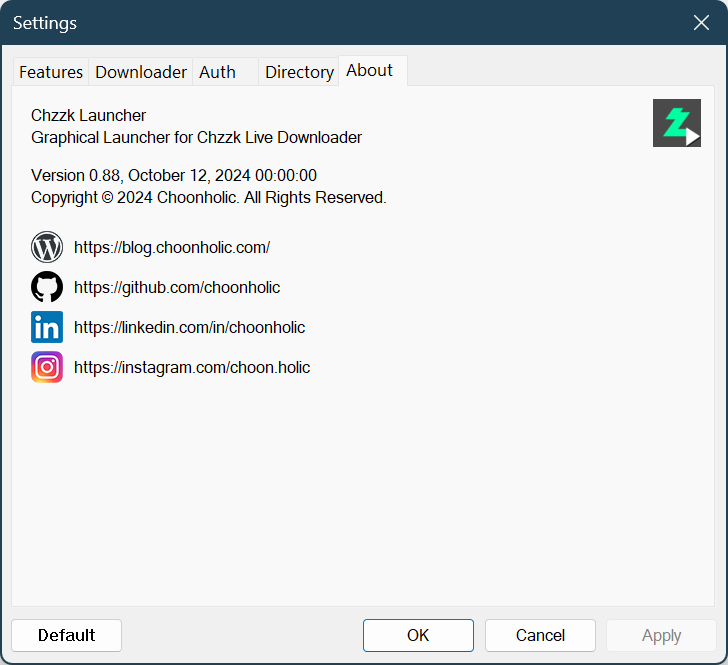
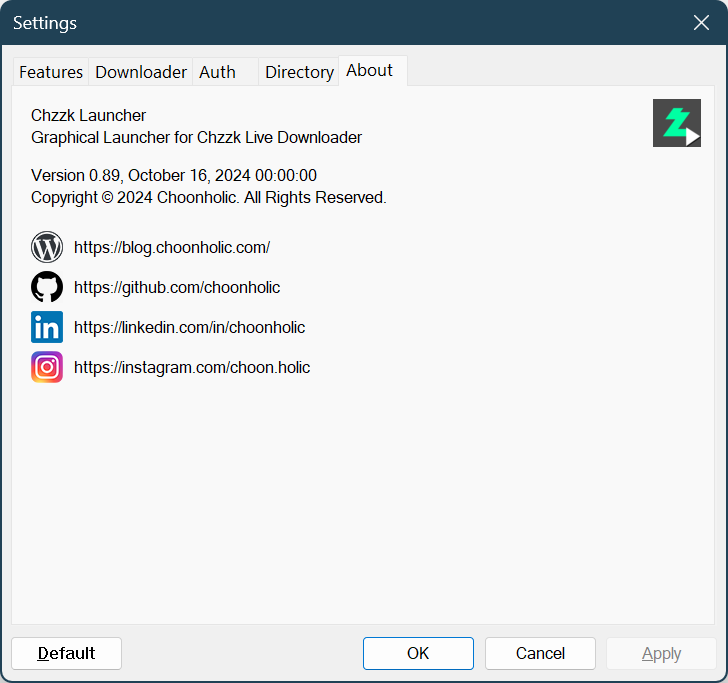
Version 0.89

diff --git a/README.md b/README.md
@@ -8,7 +8,7 @@ https://blog.choonholic.com/downloads
 Downloader for Chzzk live streams
 
 ## Version
-Version 0.88, October 12, 2024 00:00:00
+Version 0.89, October 16, 2024 00:00:00
 
 ### Prerequisites For Executables
 * **[Mandatory]** Latest version of ffmpeg binary. (ffmpeg 7.1 is recommended.)
@@ -17,21 +17,21 @@ Version 0.88, October 12, 2024 00:00:00
 
 ### Usage
 ```powershell
-ChzzkLiveDownloader [-h] [-i ID] [-u [UID]] [-a] [-q [QUALITY]] [-d [DISPLAY]]
-                    [-y] [--version] [--once ONCE] [--stream [STREAM]]
-                    [--final [FINAL]] [--custom [CUSTOM]] [--offset OFFSET]
-                    [--duration DURATION] [--detect [DETECT]]
-                    [--authaut AUTHAUT] [--authses AUTHSES] [--nlevel [NLEVEL]]
-                    [--ntoken NTOKEN] [--name [NAME]] [--work [WORK]]
-                    [--out [OUT]] [--temp [TEMP]] [--rpcbaseport [RPCPORT]]
-                    [--thumb [THUMB]] [--settings [SETTINGS]] [--reset]
+ChzzkLiveDownloader [-h] [-i ID] [-u [UID]] [-a] [-q [QUALITY]] [-d [DISPLAY]] [-y]
+                    [--version] [--once ONCE] [--stream [STREAM]] [--final [FINAL]]
+                    [--custom [CUSTOM]] [--offset OFFSET] [--duration DURATION]
+                    [--detect [DETECT]] [--adult [ADULT]] [--authaut AUTHAUT]
+                    [--authses AUTHSES] [--nlevel [NLEVEL]] [--ntoken NTOKEN]
+                    [--name [NAME]] [--work [WORK]] [--out [OUT]] [--temp [TEMP]]
+                    [--rpcbaseport [RPCPORT]] [--thumb [THUMB]]
+                    [--startup [STARTUP]] [--settings [SETTINGS]] [--reset]
 ```
 
 ### Options
 ```
 -h, --help               Show this help message
--i ID, --id ID           Set streamer configuration id (default: 0)
--u [UID], --uid [UID]    Set streamer unique identifier
+-i, --id ID              Set streamer configuration id (default: 0)
+-u, --uid [UID]          Set streamer unique identifier
 -a, --auth               Set Chzzk authorized credential
 -q, --quality [QUALITY]  Set target quality to download (e.g. 1080p)
 -d, --display [DISPLAY]  Set download status display mode (quiet|simple|fluent|all)
@@ -44,6 +44,7 @@ ChzzkLiveDownloader [-h] [-i ID] [-u [UID]] [-a] [-q [QUALITY]] [-d [DISPLAY]]
 --offset OFFSET          Set amount of time to skip from the beginning of the stream
 --duration DURATION      Set limit the stream duration to download
 --detect [DETECT]        Set detection interval (default: 60, 1-600)
+--adult [ADULT]          Set the process method for adult contents when credentials are invalid (ask|skip)
 --authaut AUTHAUT        Set auth key of Chzzk authorized credential
 --authses AUTHSES        Set session key of Chzzk authorized credential
 --nlevel [NLEVEL]        Set LINE notify level (none|reset|remove|info|error|verbose|all)
@@ -54,6 +55,7 @@ ChzzkLiveDownloader [-h] [-i ID] [-u [UID]] [-a] [-q [QUALITY]] [-d [DISPLAY]]
 --temp [TEMP]            Set temporary directory
 --rpcbaseport [RPCPORT]  Set base port of JSON-RPC server (default: 62000, 49152-65300)
 --thumb [THUMB]          Save thumbnail image or skip (save|skip)
+--startup [STARTUP]      Set startup method (normal|fast)
 --settings [SETTINGS]    Set action when saving settings (default|skip|quit)
 --reset                  Reset all settings
 ```
@@ -67,16 +69,17 @@ ChzzkLiveDownloader -i 2 --thumb --detect 30 --work work --out out --temp temp
 Downloader for Chzzk replay videos
 
 ## Version
-Version 0.88, October 12, 2024 00:00:00
+Version 0.89, October 16, 2024 00:00:00
 
 ### Usage
 ```powershell
 ChzzkVideoDownloader [-h] [-i INPUT] [-a] [-q [QUALITY]] [-d [DISPLAY]] [-y]
-                     [--version] [--authaut AUTHAUT] [--authses AUTHSES]
-                     [--name [NAME]] [--work [WORK]] [--out [OUT]]
-                     [--temp [TEMP]] [--rpcid [RPCID]] [--rpcport [RPCPORT]]
-                     [--download [DOWNLOAD]] [--thumb [THUMB]]
-                     [--settings [SETTINGS]] [--reset]
+                     [--version] [--adult [ADULT]] [--authaut AUTHAUT]
+                     [--authses AUTHSES] [--name [NAME]] [--work [WORK]]
+                     [--out [OUT]] [--temp [TEMP]] [--rpcid [RPCID]]
+                     [--rpcport [RPCPORT]] [--download [DOWNLOAD]]
+                     [--thumb [THUMB]] [--startup [STARTUP]] [--settings [SETTINGS]]
+                     [--reset]
                      [video]
 ```
 
@@ -94,6 +97,7 @@ video                    Video number or URL to download
 -d, --display [DISPLAY]  Set download status display mode (quiet|simple|fluent|all)
 -y, --yes                Set any confirmation values to 'yes' automatically
 --version                Show version information
+--adult [ADULT]          Set the process method for adult contents when credentials are invalid (ask|skip)
 --authaut AUTHAUT        Set auth key of Chzzk authorized credential
 --authses AUTHSES        Set session key of Chzzk authorized credential
 --name [NAME]            Set output filename format
@@ -104,6 +108,7 @@ video                    Video number or URL to download
 --rpcport [RPCPORT]      Set port of JSON-RPC server (default: 63000, 49152-65300)
 --download [DOWNLOAD]    Set download method (default|atxc|alter)
 --thumb [THUMB]          Save thumbnail image or skip (save|skip)
+--startup [STARTUP]      Set startup method (normal|fast)
 --settings [SETTINGS]    Set action when saving settings (default|skip|quit)
 --reset                  Reset all settings
 ```
@@ -117,16 +122,16 @@ ChzzkVideoDownloader 1602969 --thumb --work work --out out --temp temp
 Downloader for Chzzk clips
 
 ## Version
-Version 0.88, October 12, 2024 00:00:00
+Version 0.89, October 16, 2024 00:00:00
 
 ### Usage
 ```powershell
 ChzzkClipDownloader [-h] [-i INPUT] [-a] [-d [DISPLAY]] [-y] [--version]
-                    [--authaut AUTHAUT] [--authses AUTHSES] [--name [NAME]]
-                    [--work [WORK]] [--out [OUT]] [--temp [TEMP]]
-                    [--rpcid [RPCID]] [--rpcport [RPCPORT]]
-                    [--download [DOWNLOAD]] [--thumb [THUMB]]
-                    [--settings [SETTINGS]] [--reset]
+                    [--adult [ADULT]] [--authaut AUTHAUT] [--authses AUTHSES]
+                    [--name [NAME]] [--work [WORK]] [--out [OUT]] [--temp [TEMP]]
+                    [--rpcid [RPCID]] [--rpcport [RPCPORT]] [--download [DOWNLOAD]]
+                    [--thumb [THUMB]] [--startup [STARTUP]] [--settings [SETTINGS]]
+                    [--reset]
                     [clip]
 ```
 
@@ -143,6 +148,7 @@ clip                     Clip UID or URL to download
 -d, --display [DISPLAY]  Set download status display mode (quiet|simple|fluent|all)
 -y, --yes                Set any confirmation values to 'yes' automatically
 --version                Show version information
+--adult [ADULT]          Set the process method for adult contents when credentials are invalid (ask|skip)
 --authaut AUTHAUT        Set auth key of Chzzk authorized credential
 --authses AUTHSES        Set session key of Chzzk authorized credential
 --name [NAME]            Set output filename format
@@ -153,6 +159,7 @@ clip                     Clip UID or URL to download
 --rpcport [RPCPORT]      Set port of JSON-RPC server (default: 64000, 49152-65300)
 --download [DOWNLOAD]    Set download method (default|atxc|alter)
 --thumb [THUMB]          Save thumbnail image or skip (save|skip)
+--startup [STARTUP]      Set startup method (normal|fast)
 --settings [SETTINGS]    Set action when saving settings (default|skip|quit)
 --reset                  Reset all settings
 ```

diff --git a/doc/chzzk_live_downloader_manual.md b/doc/chzzk_live_downloader_manual.md
@@ -7,30 +7,30 @@ Downloader for Chzzk live streams
 </div>
 
 ## Version
-Version 0.88, October 12, 2024 00:00:00
+Version 0.89, October 16, 2024 00:00:00
 
 ## Prerequisites
 * **[Mandatory]** Latest version of ffmpeg binary. (ffmpeg 7.1 is recommended.)
-* **[Mandatory]** Latest version of streamlink binary. (streamlink 6.11.0 is recommended.)
+* **[Mandatory]** Latest version of streamlink. (streamlink 6.11.0 is recommended.)
 * **[Optional]** Latest version of LINE messenger to get notification.
 
 ## Usage
 ```powershell
-ChzzkLiveDownloader [-h] [-i ID] [-u [UID]] [-a] [-q [QUALITY]] [-d [DISPLAY]]
-                    [-y] [--version] [--once ONCE] [--stream [STREAM]]
-                    [--final [FINAL]] [--custom [CUSTOM]] [--offset OFFSET]
-                    [--duration DURATION] [--detect [DETECT]]
-                    [--authaut AUTHAUT] [--authses AUTHSES] [--nlevel [NLEVEL]]
-                    [--ntoken NTOKEN] [--name [NAME]] [--work [WORK]]
-                    [--out [OUT]] [--temp [TEMP]] [--rpcbaseport [RPCPORT]]
-                    [--thumb [THUMB]] [--settings [SETTINGS]] [--reset]
+ChzzkLiveDownloader [-h] [-i ID] [-u [UID]] [-a] [-q [QUALITY]] [-d [DISPLAY]] [-y]
+                    [--version] [--once ONCE] [--stream [STREAM]] [--final [FINAL]]
+                    [--custom [CUSTOM]] [--offset OFFSET] [--duration DURATION]
+                    [--detect [DETECT]] [--adult [ADULT]] [--authaut AUTHAUT]
+                    [--authses AUTHSES] [--nlevel [NLEVEL]] [--ntoken NTOKEN]
+                    [--name [NAME]] [--work [WORK]] [--out [OUT]] [--temp [TEMP]]
+                    [--rpcbaseport [RPCPORT]] [--thumb [THUMB]]
+                    [--startup [STARTUP]] [--settings [SETTINGS]] [--reset]
 ```
 
 ### Options
 ```
 -h, --help               Show this help message
--i ID, --id ID           Set streamer configuration id (default: 0)
--u [UID], --uid [UID]    Set streamer unique identifier
+-i, --id ID              Set streamer configuration id (default: 0)
+-u, --uid [UID]          Set streamer unique identifier
 -a, --auth               Set Chzzk authorized credential
 -q, --quality [QUALITY]  Set target quality to download (e.g. 1080p)
 -d, --display [DISPLAY]  Set download status display mode (quiet|simple|fluent|all)
@@ -43,6 +43,7 @@ ChzzkLiveDownloader [-h] [-i ID] [-u [UID]] [-a] [-q [QUALITY]] [-d [DISPLAY]]
 --offset OFFSET          Set amount of time to skip from the beginning of the stream
 --duration DURATION      Set limit the stream duration to download
 --detect [DETECT]        Set detection interval (default: 60, 1-600)
+--adult [ADULT]          Set the process method for adult contents when credentials are invalid (ask|skip)
 --authaut AUTHAUT        Set auth key of Chzzk authorized credential
 --authses AUTHSES        Set session key of Chzzk authorized credential
 --nlevel [NLEVEL]        Set LINE notify level (none|reset|remove|info|error|verbose|all)
@@ -53,6 +54,7 @@ ChzzkLiveDownloader [-h] [-i ID] [-u [UID]] [-a] [-q [QUALITY]] [-d [DISPLAY]]
 --temp [TEMP]            Set temporary directory
 --rpcbaseport [RPCPORT]  Set base port of JSON-RPC server (default: 62000, 49152-65300)
 --thumb [THUMB]          Save thumbnail image or skip (save|skip)
+--startup [STARTUP]      Set startup method (normal|fast)
 --settings [SETTINGS]    Set action when saving settings (default|skip|quit)
 --reset                  Reset all settings
 ```

diff --git a/doc/chzzk_video_downloader_manual.md b/doc/chzzk_video_downloader_manual.md
@@ -7,16 +7,17 @@ Downloader for Chzzk replay videos
 </div>
 
 ## Version
-Version 0.88, October 12, 2024 00:00:00
+Version 0.89, October 16, 2024 00:00:00
 
 ## Usage
 ```powershell
 ChzzkVideoDownloader [-h] [-i INPUT] [-a] [-q [QUALITY]] [-d [DISPLAY]] [-y]
-                     [--version] [--authaut AUTHAUT] [--authses AUTHSES]
-                     [--name [NAME]] [--work [WORK]] [--out [OUT]]
-                     [--temp [TEMP]] [--rpcid [RPCID]] [--rpcport [RPCPORT]]
-                     [--download [DOWNLOAD]] [--thumb [THUMB]]
-                     [--settings [SETTINGS]] [--reset]
+                     [--version] [--adult [ADULT]] [--authaut AUTHAUT]
+                     [--authses AUTHSES] [--name [NAME]] [--work [WORK]]
+                     [--out [OUT]] [--temp [TEMP]] [--rpcid [RPCID]]
+                     [--rpcport [RPCPORT]] [--download [DOWNLOAD]]
+                     [--thumb [THUMB]] [--startup [STARTUP]] [--settings [SETTINGS]]
+                     [--reset]
                      [video]
 ```
 
@@ -34,6 +35,7 @@ video                    Video number or URL to download
 -d, --display [DISPLAY]  Set download status display mode (quiet|simple|fluent|all)
 -y, --yes                Set any confirmation values to 'yes' automatically
 --version                Show version information
+--adult [ADULT]          Set the process method for adult contents when credentials are invalid (ask|skip)
 --authaut AUTHAUT        Set auth key of Chzzk authorized credential
 --authses AUTHSES        Set session key of Chzzk authorized credential
 --name [NAME]            Set output filename format
@@ -44,6 +46,7 @@ video                    Video number or URL to download
 --rpcport [RPCPORT]      Set port of JSON-RPC server (default: 63000, 49152-65300)
 --download [DOWNLOAD]    Set download method (default|atxc|alter)
 --thumb [THUMB]          Save thumbnail image or skip (save|skip)
+--startup [STARTUP]      Set startup method (normal|fast)
 --settings [SETTINGS]    Set action when saving settings (default|skip|quit)
 --reset                  Reset all settings
 ```

diff --git a/doc/chzzk_clip_downloader_manual.md b/doc/chzzk_clip_downloader_manual.md
@@ -7,16 +7,16 @@ Downloader for Chzzk clips
 </div>
 
 ## Version
-Version 0.88, October 12, 2024 00:00:00
+Version 0.89, October 16, 2024 00:00:00
 
 ## Usage
 ```powershell
 ChzzkClipDownloader [-h] [-i INPUT] [-a] [-d [DISPLAY]] [-y] [--version]
-                    [--authaut AUTHAUT] [--authses AUTHSES] [--name [NAME]]
-                    [--work [WORK]] [--out [OUT]] [--temp [TEMP]]
-                    [--rpcid [RPCID]] [--rpcport [RPCPORT]]
-                    [--download [DOWNLOAD]] [--thumb [THUMB]]
-                    [--settings [SETTINGS]] [--reset]
+                    [--adult [ADULT]] [--authaut AUTHAUT] [--authses AUTHSES]
+                    [--name [NAME]] [--work [WORK]] [--out [OUT]] [--temp [TEMP]]
+                    [--rpcid [RPCID]] [--rpcport [RPCPORT]] [--download [DOWNLOAD]]
+                    [--thumb [THUMB]] [--startup [STARTUP]] [--settings [SETTINGS]]
+                    [--reset]
                     [clip]
 ```
 
@@ -33,6 +33,7 @@ clip                     Clip UID or URL to download
 -d, --display [DISPLAY]  Set download status display mode (quiet|simple|fluent|all)
 -y, --yes                Set any confirmation values to 'yes' automatically
 --version                Show version information
+--adult [ADULT]          Set the process method for adult contents when credentials are invalid (ask|skip)
 --authaut AUTHAUT        Set auth key of Chzzk authorized credential
 --authses AUTHSES        Set session key of Chzzk authorized credential
 --name [NAME]            Set output filename format
@@ -43,6 +44,7 @@ clip                     Clip UID or URL to download
 --rpcport [RPCPORT]      Set port of JSON-RPC server (default: 64000, 49152-65300)
 --download [DOWNLOAD]    Set download method (default|atxc|alter)
 --thumb [THUMB]          Save thumbnail image or skip (save|skip)
+--startup [STARTUP]      Set startup method (normal|fast)
 --settings [SETTINGS]    Set action when saving settings (default|skip|quit)
 --reset                  Reset all settings
 ```

diff --git a/doc/chzzk_launcher_manual.md b/doc/chzzk_launcher_manual.md
@@ -7,7 +7,7 @@ Graphical Launcher for Chzzk Live Downloader
 </div>
 
 ## Version
-Version 0.88, October 12, 2024 00:00:00
+Version 0.89, October 16, 2024 00:00:00
 
 ## Prerequisites
 Since Chzzk Launcher is the GUI frontend application for Chzzk Live Downloader, Chzzk Live Downloader must be installed as well.
@@ -97,6 +97,16 @@ To remove a channel you no longer wish to manage, select the channel from the li
 
 If the removed channel was in the middle of a download, the download will stop at the time of removal, and the final processing steps will be completed before saving.
 
+## Recovering the Channel
+If the connection between Chzzk Live Downloader and the Launcher is lost due to external factors such as abnormal termination of the process, the process can be restarted to re-establish the connection.
+
+<div style='text-align: center'>
+<img src='../img/screenshots/launcher_recover_channel.png' />
+<p><i>(This image may not reflect the latest information.)</i></p>
+</div>
+
+If a download was in progress when the connection was lost, the download will be terminated at that point and then restarted.
+
 ## Skipping Current Stream
 To skip the current live stream without downloading it, select the channel from the list, click the ☰ icon, and choose `Skip Current`.
 
@@ -141,7 +151,7 @@ Click the ☰ icon and select `Load Channels...`. A dialog box will appear, allo
 If a channel from the loaded list already exists in the current list, it will be automatically recognized and handled accordingly.
 
 ## Refreshing List
-To refresh the list, click the ☰ icon, and choose `Refresh`.
+To refresh the list immediately, click the ☰ icon, and choose `Refresh`.
 
 ## Loading the Channel List at Startup Automatically
 If you frequently manage a fixed set of channels, manually loading the list each time can become tedious. By enabling the following setting, the specified channel list will be automatically loaded at startup.
